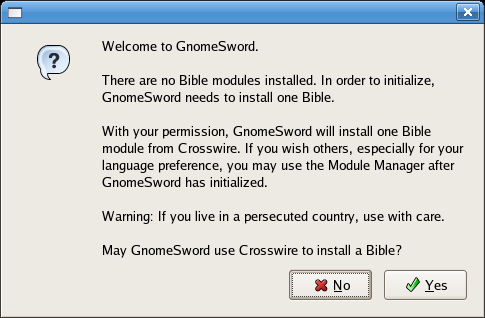
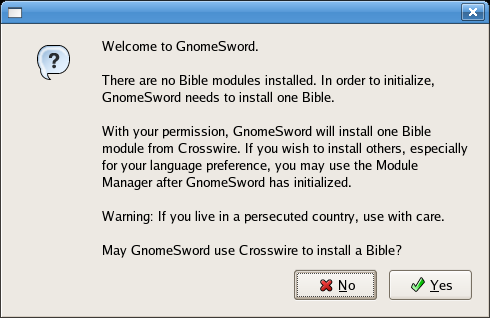
fix for #1535122. cosmetic changes for first-time user. add font note to help doc.
git-svn-id: http://svn.code.sf.net/p/gnomesword/code/trunk/gnomesword@1255 da23c209-522a-4b7c-92e9-24af42be4764

diff --git a/src/gnome2/commentary_dialog.c b/src/gnome2/commentary_dialog.c
@@ -317,7 +317,7 @@ static gboolean html_key_press_event(GtkWidget * widget,
 #ifndef USE_GTKHTML38
 	GSHTMLEditorControlData *ec =
 	    (GSHTMLEditorControlData *) d->editor;
-	ed->changed = TRUE;
+	ec->changed = TRUE;
 	//g_warning("html_key_press_event");
 	gui_update_statusbar(ec);
 #endif
@@ -368,9 +368,9 @@ static void book_changed(GtkEditable * editable, DIALOG_DATA * d)
 #ifndef USE_GTKHTML38
 	if (!ec)
 		return;
-	if (ed->key)
-		g_free(ed->key);
-	ed->key = g_strdup_printf("%s 1:1", bookname);
+	if (ec->key)
+		g_free(ec->key);
+	ec->key = g_strdup_printf("%s 1:1", bookname);
 #endif
 }
 
@@ -416,9 +416,9 @@ static gboolean chapter_button_release_event(GtkWidget * widget,
 #ifndef USE_GTKHTML38
 	if (!ec)
 		return FALSE;
-	if (ed->key)
-		g_free(ed->key);
-	ed->key = g_strdup_printf("%s %d:1", bookname, chapter);
+	if (ec->key)
+		g_free(ec->key);
+	ec->key = g_strdup_printf("%s %d:1", bookname, chapter);
 #endif
 	return FALSE;
 }
@@ -471,9 +471,9 @@ static gboolean verse_button_release_event(GtkWidget * widget,
 #ifndef USE_GTKHTML38
 	if (!ec)
 		return FALSE;
-	if (ed->key)
-		g_free(ed->key);
-	ed->key = g_strdup_printf("%s %d:%d", bookname, chapter, verse);
+	if (ec->key)
+		g_free(ec->key);
+	ec->key = g_strdup_printf("%s %d:%d", bookname, chapter, verse);
 #endif
 	return FALSE;
 }
@@ -516,9 +516,9 @@ static gboolean entry_key_press_event(GtkWidget * widget,
 #ifndef USE_GTKHTML38
 		if (!ec)
 			return;
-		if (ed->key)
-			g_free(ed->key);
-		ed->key = g_strdup_printf("%s", buf);
+		if (ec->key)
+			g_free(ec->key);
+		ec->key = g_strdup_printf("%s", buf);
 #endif
 	}
 	return FALSE;
@@ -560,9 +560,9 @@ static void on_entry_activate(GtkEntry * entry, DIALOG_DATA * d)
 #ifndef USE_GTKHTML38
 	if (!ec)
 		return;
-	if (ed->key)
-		g_free(ed->key);
-	ed->key = g_strdup_printf("%s", buf);
+	if (ec->key)
+		g_free(ec->key);
+	ec->key = g_strdup_printf("%s", buf);
 #endif
 }
 
@@ -967,41 +967,41 @@ void gui_create_commentary_dialog(DIALOG_DATA * d, gboolean do_edit)
 
 	if (do_edit) {
 #ifndef USE_GTKHTML38
-		ed->htmlwidget = gtk_html_new();
-		ed->html = GTK_HTML(ed->htmlwidget);
-		gtk_widget_show(ed->htmlwidget);
+		ec->htmlwidget = gtk_html_new();
+		ec->html = GTK_HTML(ec->htmlwidget);
+		gtk_widget_show(ec->htmlwidget);
 		gtk_container_add(GTK_CONTAINER(scrolledwindow38),
-				  ed->htmlwidget);
+				  ec->htmlwidget);
 
-		ed->vbox = vbox30;
+		ec->vbox = vbox30;
 
-		ed->pm = gui_create_editor_popup(ec);
-		gnome_popup_menu_attach(ed->pm, ed->htmlwidget, NULL);
+		ec->pm = gui_create_editor_popup(ec);
+		gnome_popup_menu_attach(ec->pm, ec->htmlwidget, NULL);
 
-		ed->statusbar = gtk_statusbar_new();
-		gtk_widget_show(ed->statusbar);
-		gtk_box_pack_start(GTK_BOX(vbox30), ed->statusbar,
+		ec->statusbar = gtk_statusbar_new();
+		gtk_widget_show(ec->statusbar);
+		gtk_box_pack_start(GTK_BOX(vbox30), ec->statusbar,
 				   FALSE, TRUE, 0);
 		
 		/* html.c */
-		g_signal_connect(G_OBJECT(ed->htmlwidget),
+		g_signal_connect(G_OBJECT(ec->htmlwidget),
 				 "key_press_event",
 				 G_CALLBACK(html_key_press_event), d);
-		g_signal_connect(GTK_OBJECT(ed->htmlwidget),
+		g_signal_connect(GTK_OBJECT(ec->htmlwidget),
 				 "link_clicked",
 				 G_CALLBACK(gui_link_clicked), NULL);
 
-		g_signal_connect(GTK_OBJECT(ed->htmlwidget),
+		g_signal_connect(GTK_OBJECT(ec->htmlwidget),
 				 "on_url", G_CALLBACK(gui_url), NULL);
 
 		gui_toolbar_style(ec);
 		gtk_box_pack_start(GTK_BOX(vbox_toolbars),
-				   ed->toolbar_style, FALSE, FALSE, 0);
-		gtk_widget_show(ed->toolbar_style);
+				   ec->toolbar_style, FALSE, FALSE, 0);
+		gtk_widget_show(ec->toolbar_style);
 		gui_toolbar_edit(ec);
 		gtk_box_pack_start(GTK_BOX(vbox_toolbars),
-				   ed->toolbar_edit, FALSE, FALSE, 0);
-		gtk_widget_show(ed->toolbar_edit);
+				   ec->toolbar_edit, FALSE, FALSE, 0);
+		gtk_widget_show(ec->toolbar_edit);
 #endif  /* USE_GTKHTML38 */
 	} else {
 		d->html = gtk_html_new();

diff --git a/src/main/settings.c b/src/main/settings.c
@@ -49,7 +49,7 @@
  */
 #define GS_DIR ".gnomesword-2.0"
 
-#define GS_NET_PERMISSION	"Welcome to GnomeSword.\n\nThere are no Bible modules installed. In order to initialize, GnomeSword needs to install one Bible.\n\nWith your permission, GnomeSword will install one Bible module from Crosswire. If you wish others, especially for your language preference, you may use the Module Manager after GnomeSword has initialized.\n\nWarning: If you live in a persecuted country, use with care.\n\nMay GnomeSword use Crosswire to install a Bible?"
+#define GS_NET_PERMISSION	"Welcome to GnomeSword.\n\nThere are no Bible modules installed. In order to initialize, GnomeSword needs to install one Bible.\n\nWith your permission, GnomeSword will install one Bible module from Crosswire. If you wish to install others, especially for your language preference, you may use the Module Manager after GnomeSword has initialized.\n\nWarning: If you live in a persecuted country, use with care.\n\nMay GnomeSword use Crosswire to install a Bible?"
 
 /******************************************************************************
  * globals
